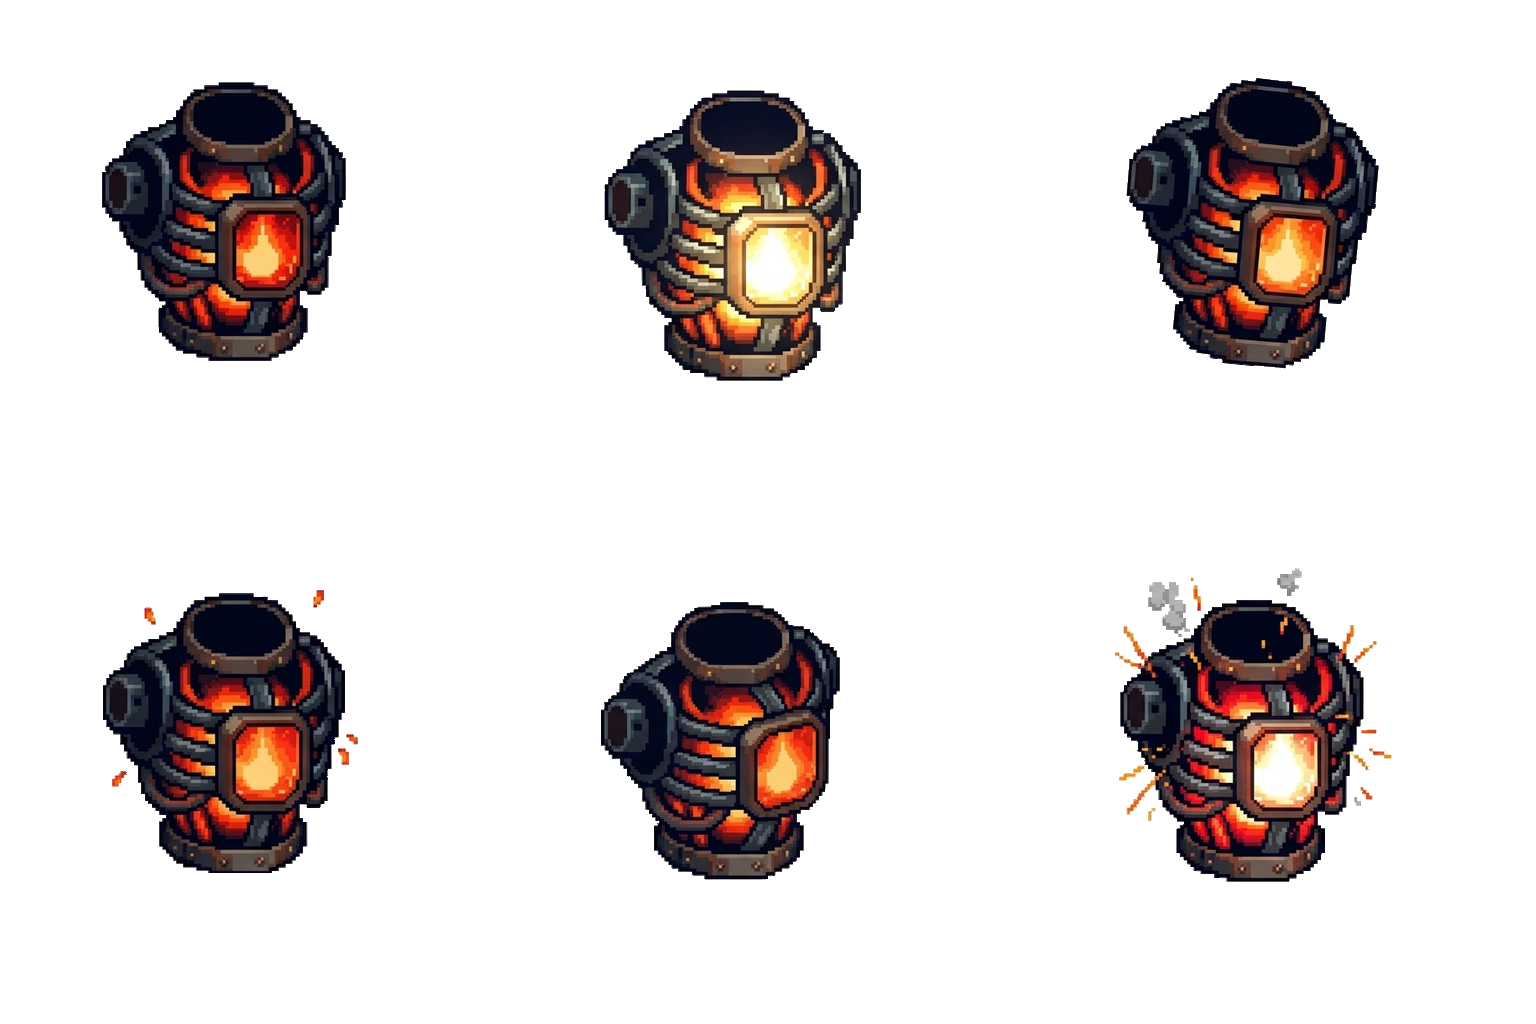
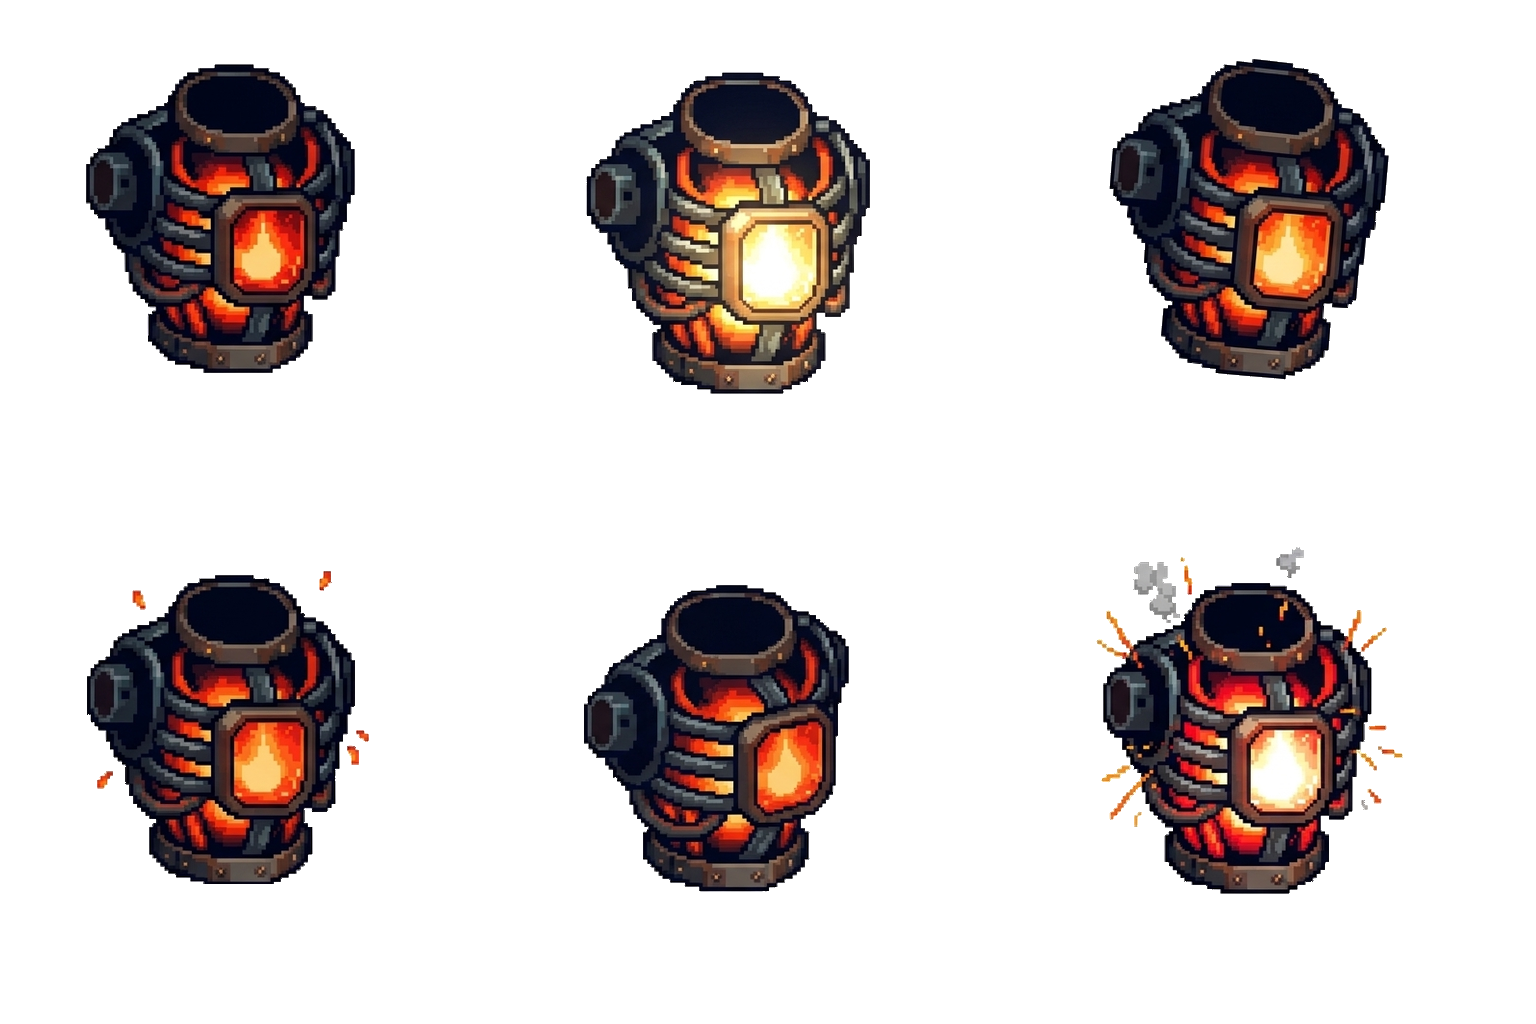
art(m11): krall torsos2 rescale (P0-14) & arms_L4 bent poses (P0-16)

diff --git a/SPRITE_QUEUE.md b/SPRITE_QUEUE.md
@@ -40,9 +40,9 @@ Wer im Code oder in einem Plan ein neues benötigtes Sprite, ein neues M11-Sheet
 | ID | Status | Zieldatei | Typ & Format | Referenz (`ImagePaths`) | Brief / Prompt | Notiz |
 | :--- | :---: | :--- | :--- | :--- | :--- | :--- |
 | `P0-13` | [x] | `art_source/rigs/turret_treads.png` | Typ G/E · 3×2 · `1536×1024` | `public/art/sprites/turret_0.png`, `art_source/rigs/turret_rig.png` | `ART_BRIEF_M11_ENEMIES.md` (Zusatz Geschütz-Antrieb) | ✅ 4 Rollphasen linke Raupenkette + Staubwolke + Bremsfunken (`min_margin ≥ 78 px`, `art:check` ok, bereit für Claude-Import) |
-| `P0-14` | [ ] | `art_source/rigs/krall_torsos2.png` *(ersetzt die gelieferte Version, gleicher Dateiname)* | Typ S · 3×2 · `1536×1024` | `art_source/rigs/krall_torsos.png` *(Zelle 1 = Panzer-Rumpf = Maßstab, Zelle 5 = Skelettrahmen)*, bisheriges `krall_torsos2.png` | `ART_BRIEF_M11.md` §4.1 (Zusatz K-A2) | **Maßstab-Korrektur:** Die 6 Phase-2-Rahmen sind ~10 % kleiner gezeichnet als der Panzer-Rumpf (Spiel: 76×90 statt 84×100 px) → Körper wirkt in Phase 2 geschrumpft, Magnet schwebt darüber. Gleiche 6 Posen, aber Körperbreite/-höhe **wie der Panzer-Rumpf** (Kragen oben bündig mit Zelle 1 von `krall_torsos.png`, Kern im Fadenkreuz). Code hat bis dahin Übergangs-Skalierung ×1,1 (`t2k` in `krall.ts`) — nach Import entfernen. |
+| `P0-14` | [x] | `art_source/rigs/krall_torsos2.png` *(ersetzt die gelieferte Version, gleicher Dateiname)* | Typ S · 3×2 · `1536×1024` | `art_source/rigs/krall_torsos.png` *(Zelle 1 = Panzer-Rumpf = Maßstab, Zelle 5 = Skelettrahmen)*, bisheriges `krall_torsos2.png` | `ART_BRIEF_M11.md` §4.1 (Zusatz K-A2) | ✅ **Maßstab-Korrektur geliefert:** exakt im Panzer-Maßstab (`269 px` breit → Import exakt `84×100 px` wie `torso_1…6`, Kern im Fadenkreuz, `min_margin ≥ 35 px`, `art:check` ok; `t2k`-Übergang in `krall.ts` nach Re-Import entfernen) |
 | `P0-15` | [ ] | `art_source/rigs/krall_arms_R4.png` | Typ L · 3×2 · `1536×1024` | `art_source/rigs/krall_arms_R.png`, `krall_arms_R2.png`, `krall_arms_R3.png` | `ART_BRIEF_M11.md` §4.1 (Zusatz K-F) | **Rechte Zange VERBOGEN in den übrigen Posen:** seitlich · Block · Boden-Stampfer · Sog (Funken) · Hagel/Wurf-Halten mit Schrott · Teleskop voll ausgefahren. Gleiche Posen wie `krall_arms_R.png` Zellen 3–5 + `R2` Zellen 5–6/3, nur beschädigt wie `R3` Zelle 1–3. Schulterring im Fadenkreuz. Ziel: Zange bleibt in **allen** Angriffen sichtbar beschädigt. |
-| `P0-16` | [ ] | `art_source/rigs/krall_arms_L4.png` | Typ L · 3×2 · `1536×1024` | `art_source/rigs/krall_arms_L.png`, `krall_arms_L2.png`, `krall_arms_L3.png` | `ART_BRIEF_M11.md` §4.1 (Zusatz K-F) | Wie P0-15 für den **linken** Haken/Mini-Säge (verbogen, 6 Posen), Licht links-oben, **nicht** spiegeln. |
+| `P0-16` | [x] | `art_source/rigs/krall_arms_L4.png` | Typ L · 3×2 · `1536×1024` | `art_source/rigs/krall_arms_L.png`, `krall_arms_L2.png`, `krall_arms_L3.png` | `ART_BRIEF_M11.md` §4.1 (Zusatz K-F) | ✅ Linker Haken/Mini-Säge VERBOGEN in den 6 übrigen Posen (seitlich · Schild-Block · Stampfer · Sog mit Funken · Hagel/Schrott · Teleskop voll; Licht links-oben, Schulterring im Fadenkreuz, `min_margin ≥ 30 px`, `art:check` ok) |
 | `P0-17` | [ ] | `art_source/rigs/krall_arms_R5.png` | Typ L · 3×2 · `1536×1024` | `krall_arms_R3.png` (Zelle 4–6 = Stumpf), `krall_arms_R4.png` | `ART_BRIEF_M11.md` §4.1 (Zusatz K-F) | Rechter **abgebrochener Stumpf** (funkend, Kabel) in denselben 6 Posen wie P0-15 (seitlich · Block · Stampfer · Sog · Halten · Teleskop-Stoß). Der Stumpf hält keinen Schrott/keine Zange mehr — Hagel/Halten zeigt hochgereckten Stumpf mit Funken. |
 | `P0-18` | [ ] | `art_source/rigs/krall_arms_L5.png` | Typ L · 3×2 · `1536×1024` | `krall_arms_L3.png` (Zelle 4–6 = Stumpf), `krall_arms_L4.png` | `ART_BRIEF_M11.md` §4.1 (Zusatz K-F) | Wie P0-17 für den **linken** Stumpf, Licht links-oben, nicht spiegeln. |
 

diff --git a/handoff/krall.md b/handoff/krall.md
@@ -19,10 +19,11 @@
     - `art_source/rigs/krall_arms_R2.png` (**P0-06 / K-C rechts**: Stoß teleskopiert kurz/mittel/voll · Zuschnappen · Sog mit Funken · Hagel mit Schrottbrocken, Schulterring im Fadenkreuz, `min_margin ≥ 40 px`)
     - `art_source/rigs/krall_arms_L2.png` (**P0-07 / K-C links**: gleiche 6 Angriffsposen für Schrott-Haken/Mini-Säge mit Licht links-oben, Schulterring im Fadenkreuz, `min_margin ≥ 35 px`)
     - `art_source/rigs/krall_fx2.png` (**P0-08 / K-D Effekte**: Stoß-Luftwelle · Magnet-Feldring rot/blau · Magnet-Blitzbogen · Staub-/Druckring · Aufschlag-Krater mit Schrottsplittern · Rostwolke, zentriert im Fadenkreuz, `min_margin ≥ 99 px`; Ringe Zelle 2/4 mit `holes: true` importieren)
-    - `art_source/rigs/krall_torsos2.png` (**P0-09 / K-A Phase-2-Rümpfe**: 6 Skelettrahmen-Posen passend zu `krall_torsos.png` Zelle 5: geduckt · aufgerichtet/Kern hell · vorgebeugt · Stampfer gestaucht · Wurf-Drehung · überhitzt mit Funken/Dampf, Kern im Fadenkreuz, `min_margin ≥ 56 px`)
+    - `art_source/rigs/krall_torsos2.png` (**P0-09 / P0-14 K-A2 Phase-2-Rümpfe**: 6 Skelettrahmen-Posen im exakten Panzer-Maßstab `269 px` → Import `84×100 px`, Kern im Fadenkreuz, `min_margin ≥ 35 px`, bereit für Re-Import & Entfernen von `t2k`)
     - `art_source/rigs/krall_torsos3.png` (**P0-11 / K-E Rumpf-Beschädigungsstufen**: P1 < 80/< 65/< 25 % · P2 < 35/< 25/kritisch < 15 %, Furnace-Kern im Fadenkreuz, `min_margin ≥ 35 px`)
     - `art_source/rigs/krall_legs_R2.png` (**P0-10 / K-B rechts**: Ausfall gestreckt · Bremsen · Stampfer-Landung gespreizt · Phase 2 beschädigt/humpelnd mit Funken · Magnet-Stemmen · Ruhe-Zittern, Hüftring im Fadenkreuz, `min_margin ≥ 38 px`)
     - `art_source/rigs/krall_arms_R3.png` (**P0-12 / K-E rechts**: beschädigte Greifzange verbogen + abgebrochener funkender Stumpf mit Kabeln, je hängend/ausholend/Stoß, `min_margin ≥ 34 px`)
     - `art_source/rigs/krall_arms_L3.png` (**P0-12 / K-E links**: beschädigter Haken/Mini-Säge verbogen + abgebrochener funkender Stumpf, Licht links-oben, `min_margin ≥ 77 px`)
     - `art_source/rigs/krall_legs_L2.png` (**P0-10 / K-B links**: gleiche 6 Angriffs-Beinposen eigenständig nach links mit Licht links-oben, Hüftring im Fadenkreuz, `min_margin ≥ 31 px`)
+    - `art_source/rigs/krall_arms_L4.png` (**P0-16 / K-F links**: Haken/Mini-Säge verbogen in den übrigen 6 Posen seitlich · Schild-Block · Stampfer · Sog mit Funken · Hagel/Schrott · Teleskop voll, Licht links-oben, Schulterring im Fadenkreuz, `min_margin ≥ 30 px`)
 
